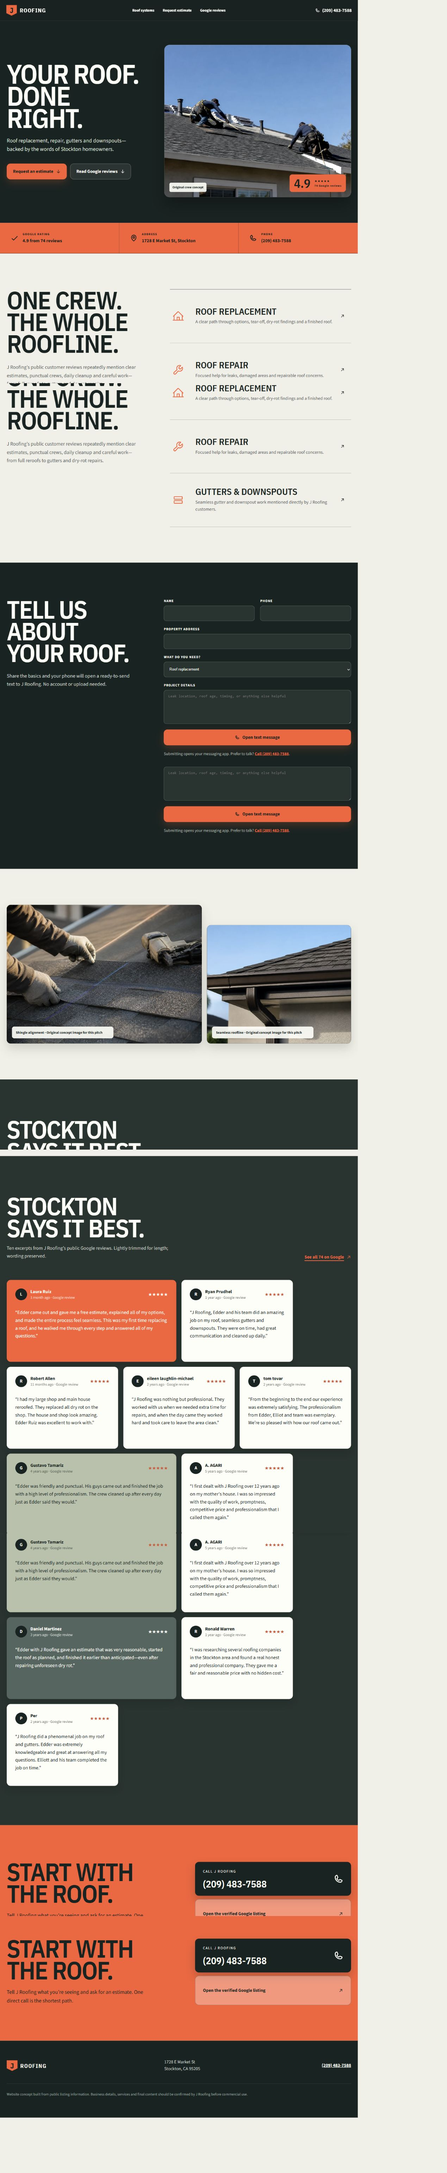
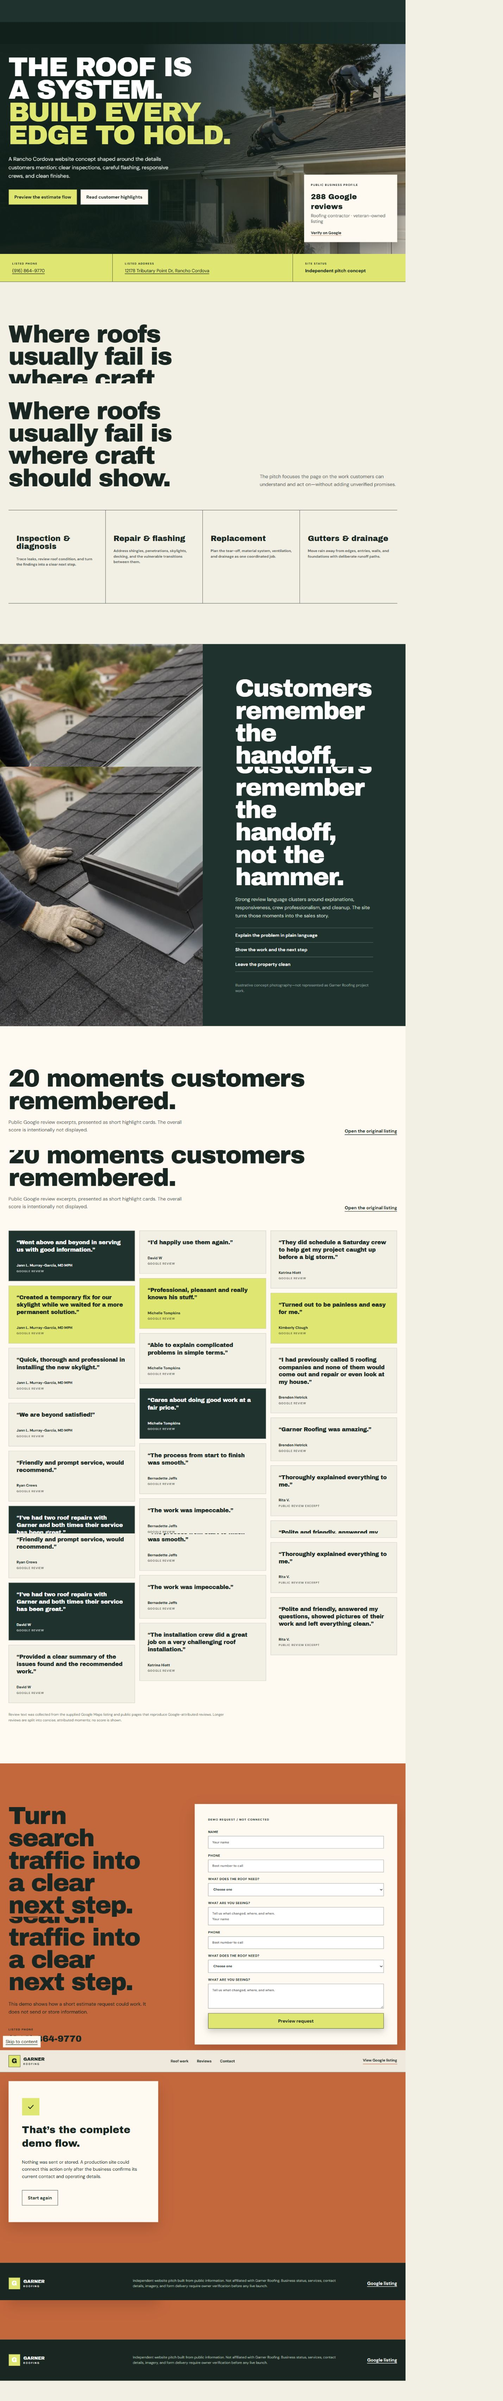
Add Garner Roofing pitch site

diff --git a/garner/index.html b/garner/index.html
@@ -1,0 +1,98 @@
+<!doctype html>
+<html lang="en">
+<head>
+  <meta charset="utf-8">
+  <meta name="viewport" content="width=device-width,initial-scale=1">
+  <meta name="theme-color" content="#18332d">
+  <title>Garner Roofing — Rancho Cordova roofing concept</title>
+  <meta name="description" content="Independent website concept for Garner Roofing, built from public listing information and public Google review excerpts.">
+  <link rel="preconnect" href="https://fonts.googleapis.com">
+  <link rel="preconnect" href="https://fonts.gstatic.com" crossorigin>
+  <link href="https://fonts.googleapis.com/css2?family=Archivo+Black&family=DM+Sans:wght@400;500;600;700&display=swap" rel="stylesheet">
+  <link rel="stylesheet" href="styles.css">
+  <link rel="stylesheet" href="finish.css">
+</head>
+<body id="top">
+  <!--
+  SEED: code-led / no concept-roll or approved comp
+  THESIS: Roofing craft is a connected system; the page turns roof-edge detail into a memorable reason to trust the next conversation.
+  OWN-WORLD: Mineral green field, safety-lime action, copper close, square ruled geometry, documentary roof photography, Archivo Black and DM Sans.
+  STORY: System thesis → public listing proof → conservative work categories → detail and handoff → twenty review moments → inert estimate demo.
+  FIRST VIEWPORT: Monumental “THE ROOF IS A SYSTEM. BUILD EVERY EDGE TO HOLD.” over working-roof imagery with review-count proof and two clear routes.
+  FORM: Warm editorial roof-craft ledger; code-led, no approved comp; responsive static HTML/CSS with one local demo interaction.
+  FINISH: unreviewed and undocumented is unfinished; this build ends with the finish review, the verdict, and DESIGN.md
+  -->
+  <a class="skip" href="#main">Skip to content</a>
+  <header>
+    <a class="brand" href="#top" aria-label="Garner Roofing concept home"><span class="mark" aria-hidden="true">G</span><span>GARNER <small>ROOFING</small></span></a>
+    <nav aria-label="Primary"><a href="#work">Roof work</a><a href="#reviews">Reviews</a><a href="#contact">Contact</a></nav>
+    <a class="header-link" href="https://maps.app.goo.gl/MhKmYCBdiWtCbyfq6" target="_blank" rel="noopener">View Google listing</a>
+  </header>
+
+  <main id="main">
+    <section class="hero" aria-labelledby="hero-title">
+      <picture><source type="image/webp" srcset="../v2/assets/hero-880.webp 880w, ../v2/assets/hero-1800.webp 1800w"><img src="../v2/assets/hero-1800.jpg" alt="Roofing crew installing shingles on a residential roof" fetchpriority="high"></picture>
+      <div class="hero-wash"></div>
+      <div class="hero-copy">
+        <h1 id="hero-title">The roof is a system.<br><em>Build every edge to hold.</em></h1>
+        <p class="lede">A Rancho Cordova website concept shaped around the details customers mention: clear inspections, careful flashing, responsive crews, and clean finishes.</p>
+        <div class="actions"><a class="button primary" href="#contact">Preview the estimate flow</a><a class="button secondary" href="#reviews">Read customer highlights</a></div>
+      </div>
+      <aside class="proof"><span>PUBLIC BUSINESS PROFILE</span><strong>288 Google reviews</strong><p>Roofing contractor · veteran-owned listing</p><a href="https://maps.app.goo.gl/MhKmYCBdiWtCbyfq6" target="_blank" rel="noopener">Verify on Google</a></aside>
+    </section>
+
+    <section class="signal" aria-label="Public listing details"><p><span>LISTED PHONE</span><a href="tel:+19168649770">(916) 864-9770</a></p><p><span>LISTED ADDRESS</span><a href="https://maps.app.goo.gl/MhKmYCBdiWtCbyfq6" target="_blank" rel="noopener">12178 Tributary Point Dr, Rancho Cordova</a></p><p><span>SITE STATUS</span><b>Independent pitch concept</b></p></section>
+
+    <section class="work" id="work">
+      <div class="work-intro"><h2>Where roofs usually fail is where craft should show.</h2><p>The pitch focuses the page on the work customers can understand and act on—without adding unverified promises.</p></div>
+      <div class="services">
+        <article><h3>Inspection & diagnosis</h3><p>Trace leaks, review roof condition, and turn the findings into a clear next step.</p></article>
+        <article><h3>Repair & flashing</h3><p>Address shingles, penetrations, skylights, decking, and the vulnerable transitions between them.</p></article>
+        <article><h3>Replacement</h3><p>Plan the tear-off, material system, ventilation, and drainage as one coordinated job.</p></article>
+        <article><h3>Gutters & drainage</h3><p>Move rain away from edges, entries, walls, and foundations with deliberate runoff paths.</p></article>
+      </div>
+    </section>
+
+    <section class="detail">
+      <picture><source type="image/webp" srcset="../v2/assets/skylight-800.webp 800w, ../v2/assets/skylight-1200.webp 1200w"><img src="../v2/assets/skylight-1200.jpg" alt="Close view of careful shingle and skylight flashing work" loading="lazy"></picture>
+      <div><h2>Customers remember the handoff, not the hammer.</h2><p>Strong review language clusters around explanations, responsiveness, crew professionalism, and cleanup. The site turns those moments into the sales story.</p><ul><li>Explain the problem in plain language</li><li>Show the work and the next step</li><li>Leave the property clean</li></ul><small>Illustrative concept photography—not represented as Garner Roofing project work.</small></div>
+    </section>
+
+    <section class="reviews" id="reviews">
+      <div class="reviews-head"><div><h2>20 moments customers remembered.</h2><p>Public Google review excerpts, presented as short highlight cards. The overall score is intentionally not displayed.</p></div><a href="https://maps.app.goo.gl/MhKmYCBdiWtCbyfq6" target="_blank" rel="noopener">Open the original listing</a></div>
+      <div class="review-grid">
+        <article><blockquote>“Went above and beyond in serving us with good information.”</blockquote><p>Jann L. Murray-García, MD MPH <span>Google review</span></p></article>
+        <article><blockquote>“Created a temporary fix for our skylight while we waited for a more permanent solution.”</blockquote><p>Jann L. Murray-García, MD MPH <span>Google review</span></p></article>
+        <article><blockquote>“Quick, thorough and professional in installing the new skylight.”</blockquote><p>Jann L. Murray-García, MD MPH <span>Google review</span></p></article>
+        <article><blockquote>“We are beyond satisfied!”</blockquote><p>Jann L. Murray-García, MD MPH <span>Google review</span></p></article>
+        <article><blockquote>“Friendly and prompt service, would recommend.”</blockquote><p>Ryan Crews <span>Google review</span></p></article>
+        <article><blockquote>“I’ve had two roof repairs with Garner and both times their service has been great.”</blockquote><p>David W <span>Google review</span></p></article>
+        <article><blockquote>“Provided a clear summary of the issues found and the recommended work.”</blockquote><p>David W <span>Google review</span></p></article>
+        <article><blockquote>“I’d happily use them again.”</blockquote><p>David W <span>Google review</span></p></article>
+        <article><blockquote>“Professional, pleasant and really knows his stuff.”</blockquote><p>Michelle Tompkins <span>Google review</span></p></article>
+        <article><blockquote>“Able to explain complicated problems in simple terms.”</blockquote><p>Michelle Tompkins <span>Google review</span></p></article>
+        <article><blockquote>“Cares about doing good work at a fair price.”</blockquote><p>Michelle Tompkins <span>Google review</span></p></article>
+        <article><blockquote>“The process from start to finish was smooth.”</blockquote><p>Bernadette Jeffs <span>Google review</span></p></article>
+        <article><blockquote>“The work was impeccable.”</blockquote><p>Bernadette Jeffs <span>Google review</span></p></article>
+        <article><blockquote>“The installation crew did a great job on a very challenging roof installation.”</blockquote><p>Katrina Hiott <span>Google review</span></p></article>
+        <article><blockquote>“They did schedule a Saturday crew to help get my project caught up before a big storm.”</blockquote><p>Katrina Hiott <span>Google review</span></p></article>
+        <article><blockquote>“Turned out to be painless and easy for me.”</blockquote><p>Kimberly Clough <span>Google review</span></p></article>
+        <article><blockquote>“I had previously called 5 roofing companies and none of them would come out and repair or even look at my house.”</blockquote><p>Brenden Hetrick <span>Google review</span></p></article>
+        <article><blockquote>“Garner Roofing was amazing.”</blockquote><p>Brenden Hetrick <span>Google review</span></p></article>
+        <article><blockquote>“Thoroughly explained everything to me.”</blockquote><p>Rita V. <span>Public review excerpt</span></p></article>
+        <article><blockquote>“Polite and friendly, answered my questions, showed pictures of their work and left everything clean.”</blockquote><p>Rita V. <span>Public review excerpt</span></p></article>
+      </div>
+      <p class="source-note">Review text was collected from the supplied Google Maps listing and public pages that reproduce Google-attributed reviews. Longer reviews are split into concise, attributed moments; no score is shown.</p>
+    </section>
+
+    <section class="contact" id="contact">
+      <div><h2>Turn search traffic into a clear next step.</h2><p>This demo shows how a short estimate request could work. It does not send or store information.</p><a class="listed-call" href="tel:+19168649770"><span>LISTED PHONE</span>(916) 864-9770</a></div>
+      <form id="demo-form"><p>DEMO REQUEST / NOT CONNECTED</p><label>Name<input required autocomplete="name" placeholder="Your name"></label><label>Phone<input required autocomplete="tel" inputmode="tel" placeholder="Best number to call"></label><label>What does the roof need?<select required><option value="">Choose one</option><option>Inspection</option><option>Leak or repair</option><option>Roof replacement</option><option>Gutters or drainage</option></select></label><label>What are you seeing?<textarea required rows="4" placeholder="Tell us what changed, where, and when."></textarea></label><button class="button primary" type="submit">Preview request</button></form>
+      <div class="success" id="success" hidden tabindex="-1"><svg class="success-mark" viewBox="0 0 64 64" aria-hidden="true"><path d="M17 33.5 27.5 44 48 22"/></svg><h3>That’s the complete demo flow.</h3><p>Nothing was sent or stored. A production site could connect this action only after the business confirms its current contact and operating details.</p><button class="button secondary" id="reset" type="button">Start again</button></div>
+    </section>
+  </main>
+
+  <footer><a class="brand" href="#top"><span class="mark">G</span><span>GARNER <small>ROOFING</small></span></a><p>Independent website pitch built from public information. Not affiliated with Garner Roofing. Business status, services, contact details, imagery, and form delivery require owner verification before any live launch.</p><a href="https://maps.app.goo.gl/MhKmYCBdiWtCbyfq6" target="_blank" rel="noopener">Google listing</a></footer>
+  <script src="app.js"></script>
+</body>
+</html>

diff --git a/garner/styles.css b/garner/styles.css
@@ -1,0 +1,2 @@
+:root{--ink:#142721;--forest:#18332d;--paper:#f3efe3;--cream:#fffaf0;--copper:#d35f32;--lime:#dfe75d;--line:#9fa99e;color:var(--ink);background:var(--paper);font-family:"DM Sans",sans-serif;font-synthesis:none}*{box-sizing:border-box}html{scroll-behavior:smooth;scroll-padding-top:78px}body{margin:0;min-width:320px}body,input,select,textarea,button{font:inherit}img{display:block;width:100%}a{color:inherit}::selection{background:var(--lime);color:var(--ink)}:focus-visible{outline:3px solid var(--copper);outline-offset:4px}.skip{position:fixed;z-index:100;top:10px;left:10px;padding:10px;background:var(--cream);transform:translateY(-150%)}.skip:focus{transform:none}header{position:fixed;z-index:50;inset:0 0 auto;height:78px;display:grid;grid-template-columns:1fr auto 1fr;align-items:center;gap:30px;padding:0 max(22px,calc((100vw - 1380px)/2));background:rgba(243,239,227,.95);border-bottom:1px solid var(--ink);backdrop-filter:blur(12px)}.brand{display:flex;align-items:center;gap:11px;width:max-content;font-family:"Archivo Black",sans-serif;line-height:.85;text-decoration:none}.brand>span:last-child{display:flex;flex-direction:column}.brand small{margin-top:7px;font:700 .56rem/1 "DM Sans",sans-serif;letter-spacing:.28em}.mark{width:42px;height:42px;display:grid;place-items:center;background:var(--lime);border:1px solid var(--ink);font-size:1.45rem}nav{display:flex;gap:30px}nav a,.header-link{font-size:.82rem;font-weight:700;text-decoration:none}.header-link{justify-self:end;padding-bottom:4px;border-bottom:2px solid var(--copper)}.hero{position:relative;min-height:820px;height:100svh;padding-top:78px;overflow:hidden;color:white;background:var(--forest)}.hero picture,.hero picture img{position:absolute;inset:78px 0 0;height:calc(100% - 78px);object-fit:cover}.hero picture img{animation:resolve 1.1s cubic-bezier(.16,1,.3,1) both}.hero-wash{position:absolute;inset:78px 0 0;background:linear-gradient(90deg,rgba(11,32,26,.97) 0 35%,rgba(11,32,26,.65) 58%,rgba(11,32,26,.18) 100%)}.hero-copy{position:relative;z-index:2;width:min(100% - 44px,1380px);margin:auto;padding-top:clamp(82px,13vh,140px)}.location{margin:0 0 30px;color:var(--lime);font-size:.72rem;font-weight:700;letter-spacing:.2em}.hero h1,.work h2,.detail h2,.reviews h2,.contact h2{margin:0;font-family:"Archivo Black",sans-serif;font-weight:400;letter-spacing:-.035em;text-wrap:balance}.hero h1{max-width:980px;font-size:clamp(4.2rem,8vw,7.8rem);line-height:.84;text-transform:uppercase}.hero h1 em{color:var(--lime);font-style:normal}.lede{max-width:590px;margin:32px 0;color:#e8eee7;font-size:1.17rem;line-height:1.6}.actions{display:flex;flex-wrap:wrap;gap:12px}.button{min-height:54px;display:inline-flex;align-items:center;justify-content:center;padding:14px 20px;border:1px solid var(--ink);border-radius:0;font-weight:800;text-decoration:none;cursor:pointer;transition:transform .2s ease,box-shadow .2s ease}.button:hover{transform:translateY(-3px)}.primary{background:var(--lime);color:var(--ink);box-shadow:0 9px 24px rgba(0,0,0,.2)}.secondary{background:var(--cream);color:var(--ink)}.proof{position:absolute;z-index:2;right:max(22px,calc((100vw - 1380px)/2));bottom:42px;width:330px;padding:24px;background:var(--cream);color:var(--ink);box-shadow:0 18px 45px rgba(0,0,0,.28)}.proof span{font-size:.64rem;font-weight:800;letter-spacing:.16em}.proof strong{display:block;margin:14px 0 5px;font-family:"Archivo Black";font-size:1.65rem}.proof p{margin:0 0 18px;color:#55655d}.proof a{font-size:.84rem;font-weight:800;text-decoration-color:var(--copper);text-underline-offset:5px}.signal{display:grid;grid-template-columns:1fr 1.6fr 1fr;background:var(--lime);border-bottom:1px solid var(--ink)}.signal p{min-height:98px;display:flex;flex-direction:column;justify-content:center;gap:7px;margin:0;padding:18px clamp(20px,3vw,48px);border-right:1px solid var(--ink)}.signal p:last-child{border:0}.signal span{font-size:.63rem;font-weight:800;letter-spacing:.16em}.signal a,.signal b{font-size:1rem}.work{padding:clamp(95px,10vw,150px) max(22px,calc((100vw - 1380px)/2))}.work-intro{display:grid;grid-template-columns:1.25fr .75fr;gap:80px;align-items:end;margin-bottom:75px}.work h2,.detail h2,.reviews h2,.contact h2{font-size:clamp(3.2rem,6vw,6rem);line-height:.92}.work-intro p{max-width:520px;margin:0;color:#536158;font-size:1.08rem;line-height:1.65}.services{display:grid;grid-template-columns:repeat(4,1fr);border-block:1px solid var(--ink)}.services article{min-height:330px;padding:28px;border-right:1px solid var(--ink)}.services article:last-child{border:0}.services span{font-size:.63rem;font-weight:800;letter-spacing:.16em;color:var(--copper)}.services h3{margin:72px 0 20px;font-family:"Archivo Black";font-size:1.7rem;line-height:1.05}.services p{color:#536158;line-height:1.55}.detail{display:grid;grid-template-columns:1fr 1fr;min-height:680px;background:var(--forest);color:white}.detail picture,.detail picture img{height:100%;object-fit:cover}.detail>div{display:flex;flex-direction:column;justify-content:center;padding:clamp(48px,8vw,120px)}.detail p{max-width:600px;margin:28px 0;color:#d5e0da;font-size:1.08rem;line-height:1.65}.detail ul{margin:0 0 38px;padding:0;list-style:none;border-top:1px solid #799086}.detail li{padding:15px 0;border-bottom:1px solid #799086;font-weight:700}.detail small{max-width:500px;color:#98aaa2;line-height:1.5}.reviews{padding:clamp(95px,10vw,150px) max(22px,calc((100vw - 1380px)/2));background:var(--cream)}.reviews-head{display:grid;grid-template-columns:1fr auto;gap:50px;align-items:end;margin-bottom:70px}.reviews-head p{max-width:630px;margin:24px 0 0;color:#536158;font-size:1.08rem;line-height:1.6}.reviews-head>a{font-weight:800;text-underline-offset:6px}.review-grid{columns:3;column-gap:16px}.review-grid article{break-inside:avoid;margin:0 0 16px;padding:28px;background:var(--paper);border:1px solid #c2c7bb}.review-grid article:nth-child(5n+1){background:var(--forest);color:white}.review-grid article:nth-child(7n+2){background:var(--lime);color:var(--ink)}blockquote{margin:0 0 34px;font-family:"Archivo Black";font-size:1.25rem;line-height:1.3;letter-spacing:-.02em}article>p{margin:0;font-size:.8rem;font-weight:800}article>p span{display:block;margin-top:6px;font-size:.62rem;letter-spacing:.12em;text-transform:uppercase;opacity:.68}.source-note{max-width:800px;margin:32px 0 0;color:#667168;font-size:.78rem;line-height:1.55}.contact{display:grid;grid-template-columns:.85fr 1.15fr;gap:clamp(60px,9vw,130px);padding:clamp(95px,10vw,150px) max(22px,calc((100vw - 1380px)/2));background:var(--copper);color:var(--ink)}.contact>div:first-child>p{max-width:520px;margin:26px 0;font-size:1.08rem;line-height:1.6}.listed-call{display:inline-flex;flex-direction:column;gap:6px;margin-top:18px;font-family:"Archivo Black";font-size:2rem;text-decoration:none}.listed-call span{font:800 .62rem/1 "DM Sans";letter-spacing:.16em}.contact form,.success{padding:clamp(26px,4vw,48px);background:var(--cream);box-shadow:0 20px 46px rgba(67,24,10,.2)}form>p{margin:0 0 30px;font-size:.64rem;font-weight:800;letter-spacing:.15em}label{display:flex;flex-direction:column;gap:8px;margin-bottom:17px;font-size:.72rem;font-weight:800;text-transform:uppercase;letter-spacing:.06em}input,select,textarea{width:100%;padding:14px;border:1px solid #77847c;border-radius:0;background:#fff;color:var(--ink);text-transform:none;letter-spacing:0}textarea{resize:vertical}.contact form .button{width:100%}.success{display:flex;min-height:500px;flex-direction:column;align-items:flex-start;justify-content:center}.success>span{width:62px;height:62px;display:grid;place-items:center;background:var(--lime);font-size:2rem}.success h3{margin:26px 0 14px;font-family:"Archivo Black";font-size:2.2rem}.success p{max-width:560px;line-height:1.6}.success .button{margin-top:20px}footer{display:grid;grid-template-columns:1fr 2fr auto;gap:50px;align-items:center;padding:52px max(22px,calc((100vw - 1380px)/2));background:var(--ink);color:white}footer p{max-width:760px;margin:0;color:#b9c6bf;font-size:.78rem;line-height:1.55}footer>a:last-child{font-weight:800}@keyframes resolve{from{opacity:.45;filter:blur(9px);transform:scale(1.03)}to{opacity:1;filter:none;transform:none}}@media(max-width:950px){header{grid-template-columns:1fr auto}nav{display:none}.work-intro{grid-template-columns:1fr}.services{grid-template-columns:1fr 1fr}.services article:nth-child(2){border-right:0}.services article:nth-child(-n+2){border-bottom:1px solid var(--ink)}.review-grid{columns:2}.contact{grid-template-columns:1fr 1fr;gap:50px}}
+@media(max-width:700px){html{scroll-padding-top:68px}header{height:68px;padding-inline:15px}.mark{width:38px;height:38px}.header-link{font-size:.72rem}.hero{min-height:880px;height:auto;padding-top:68px}.hero picture,.hero picture img,.hero-wash{inset:68px 0 0;height:calc(100% - 68px)}.hero-wash{background:linear-gradient(180deg,rgba(11,32,26,.96),rgba(11,32,26,.72) 62%,rgba(11,32,26,.3))}.hero-copy{width:calc(100% - 32px);padding-top:70px}.hero h1{font-size:clamp(3.35rem,15vw,5rem)}.lede{font-size:1rem}.actions{flex-direction:column}.actions .button{width:100%}.proof{position:absolute;left:16px;right:16px;bottom:24px;width:auto}.signal{grid-template-columns:1fr}.signal p{min-height:82px;border-right:0;border-bottom:1px solid var(--ink)}.work{padding-inline:18px}.work-intro{gap:30px;margin-bottom:45px}.services{grid-template-columns:1fr}.services article{min-height:auto;border-right:0;border-bottom:1px solid var(--ink)!important}.services article:last-child{border-bottom:0!important}.services h3{margin-top:46px}.detail{grid-template-columns:1fr}.detail picture{height:430px}.detail>div{padding:70px 22px}.reviews{padding-inline:18px}.reviews-head{grid-template-columns:1fr;gap:24px}.review-grid{columns:1}.contact{grid-template-columns:1fr;padding-inline:18px}.contact form,.success{padding:26px 20px}footer{grid-template-columns:1fr;gap:28px;padding:45px 20px}}@media(prefers-reduced-motion:reduce){html{scroll-behavior:auto}*,*:before,*:after{animation-duration:.01ms!important;transition-duration:.01ms!important}}

diff --git a/garner/finish.css b/garner/finish.css
@@ -1,0 +1,10 @@
+:root { caret-color: var(--copper); }
+html { scrollbar-color: var(--copper) var(--paper); scrollbar-width: thin; }
+a { text-underline-offset: 5px; }
+::-webkit-scrollbar { width: 12px; }
+::-webkit-scrollbar-track { background: var(--paper); }
+::-webkit-scrollbar-thumb { background: var(--copper); border: 3px solid var(--paper); }
+.hero h1 { font-size: clamp(4.2rem, 7vw, 6rem); }
+.services h3 { margin-top: 58px; }
+.success-mark { width: 62px; height: 62px; padding: 14px; background: var(--lime); fill: none; stroke: var(--ink); stroke-width: 5; stroke-linecap: square; stroke-linejoin: miter; }
+@media (max-width: 700px) { .hero h1 { font-size: clamp(3.35rem, 15vw, 5rem); } }

diff --git a/garner/app.js b/garner/app.js
@@ -1,0 +1,1 @@
+const form=document.querySelector('#demo-form'),success=document.querySelector('#success'),first=form.querySelector('input');form.addEventListener('submit',e=>{e.preventDefault();if(!form.reportValidity())return;form.hidden=true;success.hidden=false;success.focus()});document.querySelector('#reset').addEventListener('click',()=>{form.reset();success.hidden=true;form.hidden=false;form.scrollIntoView({behavior:matchMedia('(prefers-reduced-motion: reduce)').matches?'auto':'smooth',block:'center'});first.focus({preventScroll:true})});

diff --git a/garner/DESIGN.md b/garner/DESIGN.md
@@ -1,0 +1,130 @@
+---
+name: Garner Roof-Craft Ledger
+description: A warm editorial field report that turns roof detail and customer language into a clear next step.
+colors:
+  roofline-ink: "#142721"
+  mineral-field: "#18332d"
+  ledger-paper: "#f3efe3"
+  warm-cream: "#fffaf0"
+  action-copper: "#d35f32"
+  safety-lime: "#dfe75d"
+  weathered-rule: "#9fa99e"
+typography:
+  display:
+    fontFamily: "Archivo Black, sans-serif"
+    fontSize: "clamp(4.2rem, 7vw, 6rem)"
+    fontWeight: 400
+    lineHeight: 0.84
+    letterSpacing: "-0.035em"
+  headline:
+    fontFamily: "Archivo Black, sans-serif"
+    fontSize: "clamp(3.2rem, 6vw, 6rem)"
+    fontWeight: 400
+    lineHeight: 0.92
+    letterSpacing: "-0.035em"
+  body:
+    fontFamily: "DM Sans, sans-serif"
+    fontSize: "1.08rem"
+    fontWeight: 400
+    lineHeight: 1.65
+  label:
+    fontFamily: "DM Sans, sans-serif"
+    fontSize: "0.63rem"
+    fontWeight: 800
+    letterSpacing: "0.16em"
+rounded:
+  square: "0"
+components:
+  button-primary:
+    backgroundColor: "{colors.safety-lime}"
+    textColor: "{colors.roofline-ink}"
+    rounded: "{rounded.square}"
+    padding: "14px 20px"
+    height: "54px"
+  button-secondary:
+    backgroundColor: "{colors.warm-cream}"
+    textColor: "{colors.roofline-ink}"
+    rounded: "{rounded.square}"
+    padding: "14px 20px"
+    height: "54px"
+---
+
+# Design System: Garner Roof-Craft Ledger
+
+## Overview
+
+**Creative North Star: "The Roof-Craft Ledger"**
+
+The system reads like a field report laid over documentary roofing work: mineral green, warm paper, square ruled geometry, and decisive safety-lime action. Monumental language makes roof-system craft memorable; customer excerpts supply the evidence.
+
+**Key Characteristics:**
+
+- Full-bleed roof photography with a single dark weather wash.
+- Compressed black display lettering paired with plainspoken body text.
+- Square controls, one-pixel rules, and masonry review highlights.
+- Explicit separation between public facts, illustrative photography, and demo behavior.
+
+## Colors
+
+Safety Lime identifies primary action and selected proof. Action Copper closes the page and carries focus. Mineral Field and ledger neutrals organize atmosphere and reading.
+
+**The Proof and Action Rule.** Lime means act or notice verified proof; copper means focus, contact, or the closing transition.
+
+## Typography
+
+**Display Font:** Archivo Black (with sans-serif fallback)  
+**Body Font:** DM Sans (with sans-serif fallback)
+
+Archivo Black makes terse roofing statements feel structural. DM Sans keeps review attribution, disclosures, and form language conversational.
+
+**The One Structural Voice Rule.** Display type states the thesis and section claims; body type explains and attributes.
+
+## Layout
+
+Content uses a 1380px maximum field with viewport-derived gutters. Desktop alternates full-bleed photography, four-column ruled services, a two-column detail block, a three-column masonry review wall, and a two-column contact close. At 950px wide grids tighten; at 700px the page becomes a single-column field report with 18px gutters.
+
+## Elevation & Depth
+
+The system is flat by default. Soft, offset shadows are reserved for public proof and actionable form surfaces; rules and tonal planes structure repeated content.
+
+## Shapes
+
+Controls, fields, review cards, and proof surfaces use square corners. One-pixel borders and clipped photographic planes provide the recurring geometry.
+
+## Components
+
+### Buttons
+
+- Primary buttons use Safety Lime, Roofline Ink, square corners, and a 54px minimum height.
+- Secondary buttons use Warm Cream with the same dimensions.
+- Hover lifts by 3px; focus uses a 3px copper outline with 4px offset.
+
+### Cards / Containers
+
+- Review cards use ledger paper, warm cream, mineral field, or safety lime in a three-column masonry rhythm.
+- Cards stay square and ruled; they do not use generic rounded-card chrome.
+
+### Inputs / Fields
+
+- White fields use a one-pixel slate border and square corners.
+- Browser caret, focus ring, selection, and scrollbars use the system accents.
+
+### Navigation
+
+The fixed paper header uses compact bold links and one copper-underlined Google-listing action. Primary navigation hides below 950px.
+
+## Do's and Don'ts
+
+### Do:
+
+- **Do** keep public facts and demo disclosures visible.
+- **Do** use Safety Lime sparingly for action and proof.
+- **Do** attribute every review excerpt directly.
+- **Do** preserve reduced-motion and keyboard focus behavior.
+
+### Don't:
+
+- **Don't** display the aggregate Google score in this concept.
+- **Don't** represent illustrative photography as company project work.
+- **Don't** introduce rounded pills, decorative glass, or generic icon cards.
+- **Don't** make current-operating claims without owner verification.

diff --git a/README.md b/README.md
@@ -14,6 +14,7 @@ reached by typing its own URL.
 | `https://co0oper.github.io/roofing/ultimate/v2/` | Ultimate Roof Repair — Vite/React concept |
 | `https://co0oper.github.io/roofing/v2/` | TopGuard Roofing — static concept |
 | `https://co0oper.github.io/roofing/marco-roofing/` | Marco Roofing — Vite/React concept |
+| `https://co0oper.github.io/roofing/garner/` | Garner Roofing — static review-led pitch concept |
 
 A blank root keeps the concepts out of casual browsing. It is not access control: the
 URLs above are public, and anyone who has one can open it.
